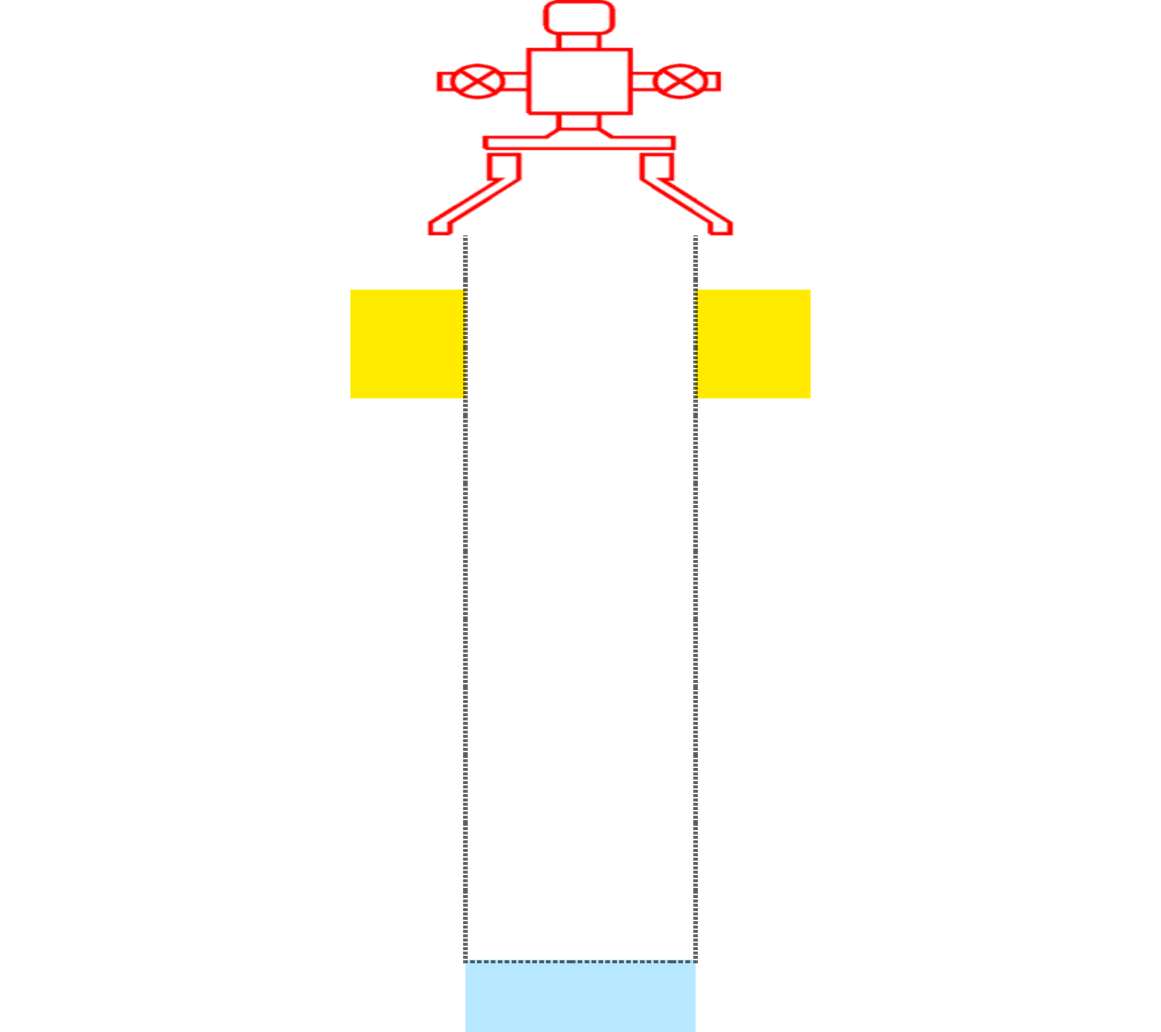
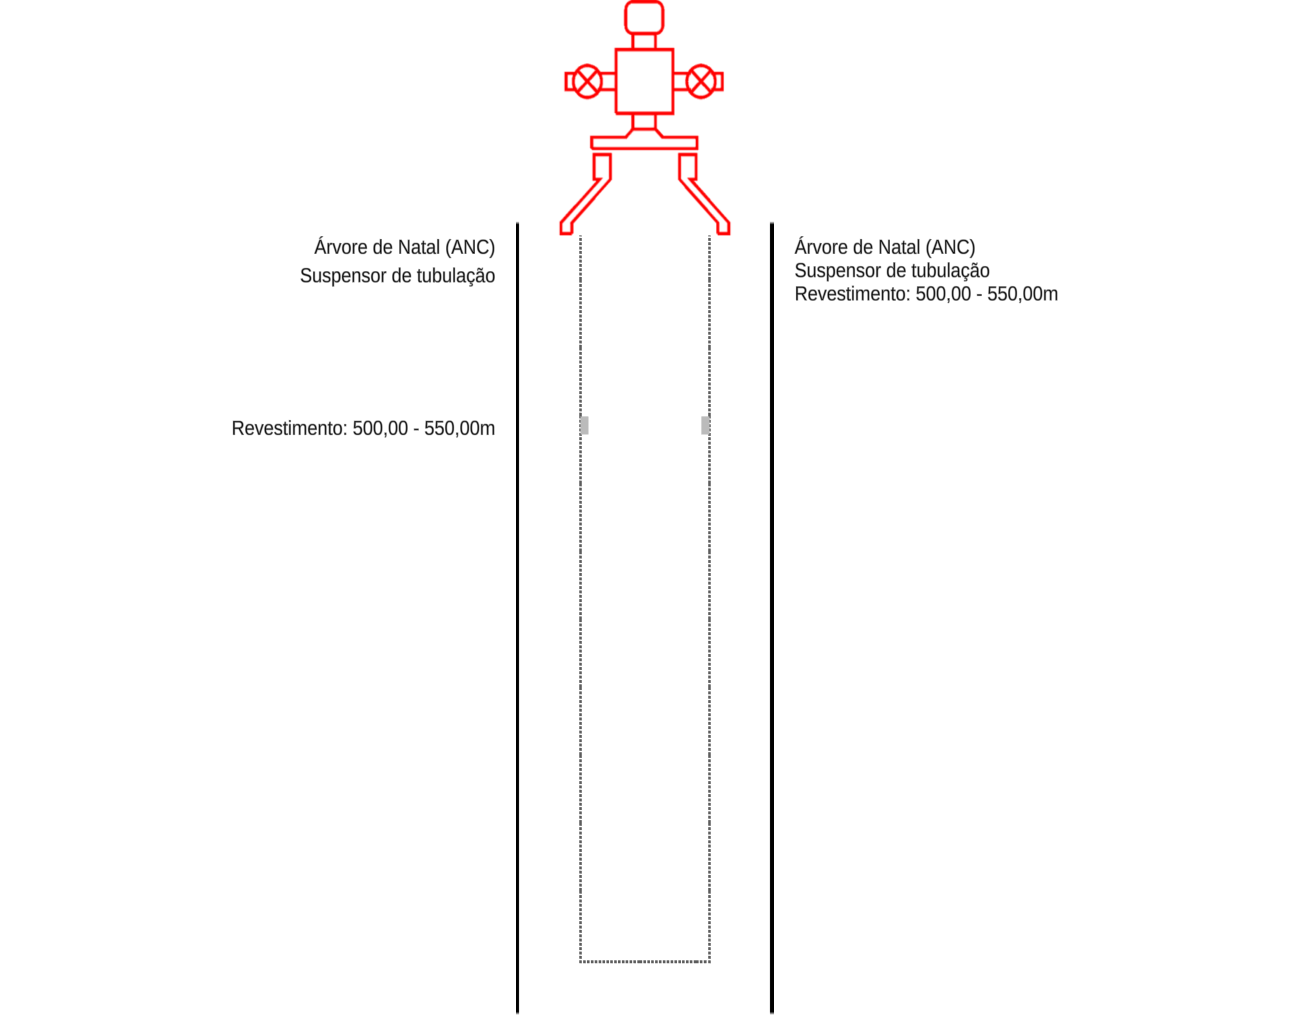
- Correções na criação de texto

Changed region(s): [[0.186, 0.0, 0.8372, 1.0], [0.5271, 0.4031, 0.5581, 0.4341], [0.4341, 0.4031, 0.4651, 0.4341]]

diff --git a/Assets/Source/Logic/Scripts/UIGenerator.cs b/Assets/Source/Logic/Scripts/UIGenerator.cs
@@ -1,6 +1,7 @@
 using Cysharp.Threading.Tasks;
 using System.Collections;
 using System.Collections.Generic;
+using System.Xml.Linq;
 using TMPro;
 using UnityEngine;
 using UnityEngine.UI;
@@ -17,12 +18,15 @@ public class UIGenerator : MonoBehaviour
     public async UniTask DrawSchematicText(List<VisualElement> allElements) 
     {
         List<UITextBlock> txtBlocks = new List<UITextBlock>();
+
+        var rightText = DrawText("", txtBlockRightPrefab, canvasRight, false);
+
         foreach (var element in allElements)
         {
             if (element.SchematicItem.element._writePartOnDoc)
             {
-                txtBlocks.Add(DrawText(element, txtBlockLeftPrefab, canvasLeft, true));
-                DrawText(element, txtBlockRightPrefab, canvasRight, false);
+                txtBlocks.Add(DrawText("> " + element, txtBlockLeftPrefab, canvasLeft, true));
+                rightText.AddLine(element.SchematicItem.ToString());
             }
         }
 
@@ -43,6 +47,14 @@ public class UIGenerator : MonoBehaviour
         UITextBlock txtBlock = Instantiate(txtPrefab, parent);
         txtBlock.gameObject.name = $"TXT - {element.SchematicItem.ToString()}";
         txtBlock.SetupText(element, setPosition);
+        return txtBlock;
+    }
+
+    public UITextBlock DrawText(string text, UITextBlock txtPrefab, RectTransform parent, bool setPosition)
+    {
+        UITextBlock txtBlock = Instantiate(txtPrefab, parent);
+        txtBlock.gameObject.name = $"TXT - {text}";
+        txtBlock.SetupText(text, 0, setPosition);
         return txtBlock;
     }
 

diff --git a/Assets/Source/Logic/Scripts/UITextBlock.cs b/Assets/Source/Logic/Scripts/UITextBlock.cs
@@ -1,4 +1,5 @@
 using Sirenix.OdinInspector;
+using Sirenix.Utilities;
 using System.Collections;
 using System.Collections.Generic;
 using TMPro;
@@ -12,14 +13,26 @@ public class UITextBlock : MonoBehaviour
     [SerializeField] Collider boxCollider;
     private UITextBlock overlapParent = null;
 
-    public void SetupText(VisualElement visualElement, bool setPosition)
+    public void SetupText(VisualElement visualElement, bool setPosition) 
     {
-        tmPro.text = visualElement.SchematicItem.ToString();
+        SetupText(
+            visualElement.SchematicItem.ToString(),
+            visualElement.transform.localPosition.y,
+            setPosition);
+    }
 
+    public void SetupText(string text, float yPosition, bool setPosition)
+    {
+        tmPro.text = text;
         if (setPosition)
         {
-            pivot.anchoredPosition = new Vector3(0, visualElement.transform.localPosition.y, 0);
+            pivot.anchoredPosition = new Vector3(0, yPosition, 0);
         }
+    }
+
+    public void AddLine(string textLine) 
+    {
+        tmPro.text += (tmPro.text.IsNullOrWhitespace()) ? $"{textLine}" : $"\n{textLine}";
     }
 
     public void OverlapText(UITextBlock otherBlock) 

diff --git a/Assets/Source/Logic/Scripts/Visual Rendering/SchematicGenerator.cs b/Assets/Source/Logic/Scripts/Visual Rendering/SchematicGenerator.cs
@@ -294,7 +294,7 @@ public class SchematicGenerator : SerializedMonoBehaviour
        _schematicCamera.aspect = widthValue;
 
         int baseScale = 258;
-        int printWidth = (baseScale * 5) - (baseScale / 2);
+        int printWidth = (baseScale * 5);
         int printHeight = (Mathf.CeilToInt(drawSize / SchematicGenerator.DRAW_LIMITS_HORIZONTAL * 2)) * baseScale;
 
 
